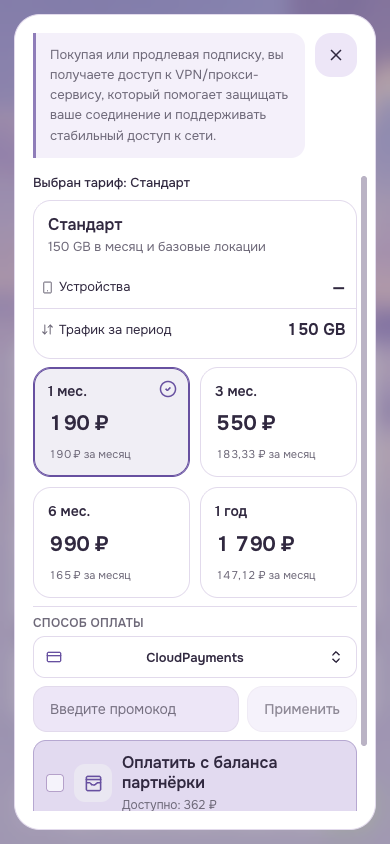
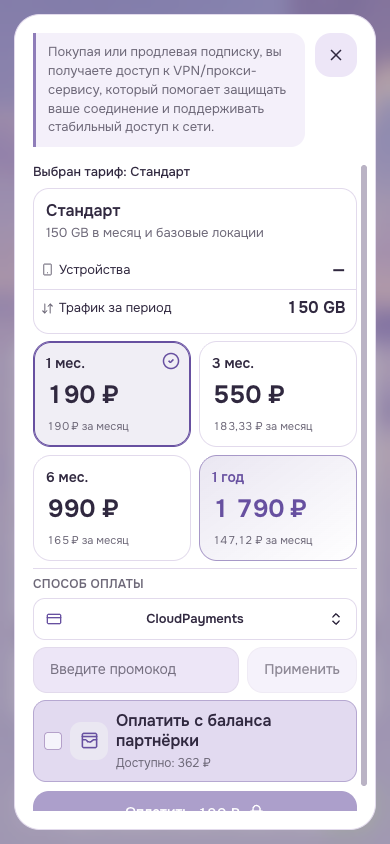
Compact checkout and restore theme assets

diff --git a/style.css b/style.css
@@ -374,8 +374,11 @@
 .theme-key-avio-landing .webapp-payment-dialog {
   font-synthesis: none;
 }
+.theme-key-avio-landing .webapp-payment-dialog .payment-dialog-body {
+  gap: 7px;
+}
 .theme-key-avio-landing .subscription-purchase-description-header {
-  padding: 12px 14px;
+  padding: 10px 12px;
   border: 0;
   border-left: 3px solid color-mix(in srgb, var(--accent) 72%, transparent);
   border-radius: 0 14px 14px 0;
@@ -386,7 +389,7 @@
   color: var(--muted);
   font-size: 13px;
   font-weight: 400;
-  line-height: 1.55;
+  line-height: 1.45;
   letter-spacing: 0;
 }
 .theme-key-avio-landing .tariff-step-caption {
@@ -396,12 +399,12 @@
   line-height: 1.4;
 }
 .theme-key-avio-landing .checkout-tariff-card {
-  border-radius: 18px;
+  border-radius: 16px;
   background: color-mix(in srgb, var(--panel) 94%, transparent);
   box-shadow: none;
 }
 .theme-key-avio-landing .checkout-tariff-card-head {
-  padding: 14px 14px 10px;
+  padding: 12px 12px 8px;
 }
 .theme-key-avio-landing .checkout-tariff-title-line > strong {
   flex: 0 1 auto;
@@ -430,10 +433,10 @@
   line-height: 1.5;
 }
 .theme-key-avio-landing .checkout-tariff-summary-static {
-  padding: 0 0 8px;
+  padding: 0 0 6px;
 }
 .theme-key-avio-landing .checkout-tariff-fact {
-  min-height: 42px;
+  min-height: 38px;
 }
 .theme-key-avio-landing .checkout-addon-label {
   font-size: 13px;
@@ -447,16 +450,16 @@
   letter-spacing: -.015em;
 }
 .theme-key-avio-landing .period-grid {
-  gap: 10px;
+  gap: 8px;
 }
 .theme-key-avio-landing .period-card {
-  min-height: 104px;
+  min-height: 92px;
   grid-template-rows: auto auto auto;
   justify-items: start;
   align-content: center;
-  gap: 7px;
-  padding: 14px;
-  border-radius: 18px;
+  gap: 5px;
+  padding: 12px;
+  border-radius: 16px;
   background: color-mix(in srgb, var(--panel) 92%, transparent);
   text-align: left;
   box-shadow: none;
@@ -471,7 +474,7 @@
 .theme-key-avio-landing .period-card > span,
 .theme-key-avio-landing .period-card .promo-price-pair {
   color: var(--text);
-  font-size: 21px;
+  font-size: 25px;
   font-weight: 650;
   line-height: 1.1;
   letter-spacing: -.025em;
@@ -490,9 +493,29 @@
   background: color-mix(in srgb, var(--accent) 10%, var(--panel));
   box-shadow: inset 0 0 0 1px var(--accent);
 }
+.theme-key-avio-landing .period-grid .period-card:nth-child(4) {
+  position: relative;
+  overflow: hidden;
+  border-color: color-mix(in srgb, var(--accent) 48%, var(--border));
+  background: linear-gradient(145deg, color-mix(in srgb, var(--accent) 14%, var(--panel)), color-mix(in srgb, var(--panel) 92%, transparent));
+}
+.theme-key-avio-landing .period-grid .period-card:nth-child(4) strong,
+.theme-key-avio-landing .period-grid .period-card:nth-child(4) > span,
+.theme-key-avio-landing .period-grid .period-card:nth-child(4) .promo-price-pair {
+  color: var(--accent);
+}
+.theme-key-avio-landing .period-grid .period-card:nth-child(4)::before {
+  content: "";
+  position: absolute;
+  inset: 0;
+  pointer-events: none;
+  background: linear-gradient(110deg, transparent 25%, color-mix(in srgb, var(--accent-contrast) 42%, transparent) 48%, transparent 70%);
+  transform: translateX(-125%);
+  animation: avio-year-shine 4.8s ease-in-out infinite;
+}
 .theme-key-avio-landing .period-card svg {
-  top: 12px;
-  right: 12px;
+  top: 10px;
+  right: 10px;
 }
 .theme-key-avio-landing .payment-method-picker-label,
 .theme-key-avio-landing .section-kicker {
@@ -501,6 +524,10 @@
 }
 .theme-key-avio-landing .payment-submit-button {
   font-weight: 600;
+}
+.theme-key-avio-landing .balance-discount {
+  padding: 10px;
+  gap: 8px;
 }
 
 /* Tickets need their full title width, independent of the viewport breakpoint. */
@@ -736,6 +763,35 @@ html.theme-key-avio-landing :is(.install-platform-item, .language-select-item, .
   .theme-key-avio-landing.app-shell:has(.bottom-nav) { background-position: center, 66% top !important; background-attachment: scroll !important; }
   .theme-key-avio-landing :is(.period-card, .method-card, .option-row) { border-radius: 20px; }
   .theme-key-avio-landing .period-card { border-radius: 18px; }
+}
+@keyframes avio-active-breathe {
+  0%, 100% {
+    box-shadow: inset 0 0 0 1px color-mix(in srgb, var(--accent) 68%, transparent), 0 0 0 0 transparent;
+  }
+  50% {
+    box-shadow: inset 0 0 0 1px var(--accent), 0 7px 20px color-mix(in srgb, var(--accent) 20%, transparent);
+  }
+}
+@keyframes avio-year-shine {
+  0%, 62% { transform: translateX(-125%); }
+  82%, 100% { transform: translateX(125%); }
+}
+.theme-key-avio-landing :is(
+  .bottom-nav button.active,
+  .install-app-button.active,
+  .support-status-tabs-trigger[data-state="active"],
+  .period-card.active
+) {
+  animation: avio-active-breathe 2.8s ease-in-out infinite;
+}
+.theme-key-avio-landing :is(
+  .btn,
+  .period-card,
+  .install-app-button,
+  .support-status-tabs-trigger,
+  .bottom-nav button
+):active:not(:disabled) {
+  transform: translateY(1px) scale(.985);
 }
 @media (prefers-reduced-motion: reduce) {
   .theme-key-avio-landing *,

diff --git a/README.md b/README.md
@@ -1,7 +1,7 @@
 # Avio — Твой интернет
 
-Версия 1.5.1: единая читаемая типографика на главной, в поддержке, настройках,
-устройствах и бонусах. Длинные подписи переносятся без обрезания на узких экранах.
+Версия 1.5.2: компактный экран оплаты, увеличенные цены, акцент на годовом тарифе,
+анимация выбранных элементов и надёжные абсолютные пути ко всем ассетам темы.
 
 Установить тему можно по адресу этого публичного репозитория или ZIP-архивом
 из раздела Releases.
